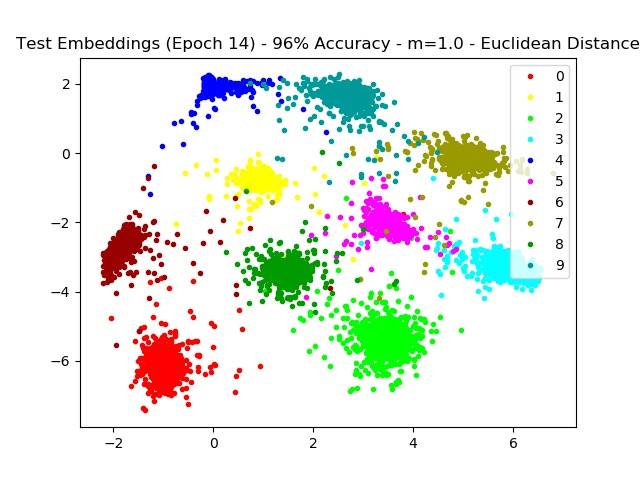
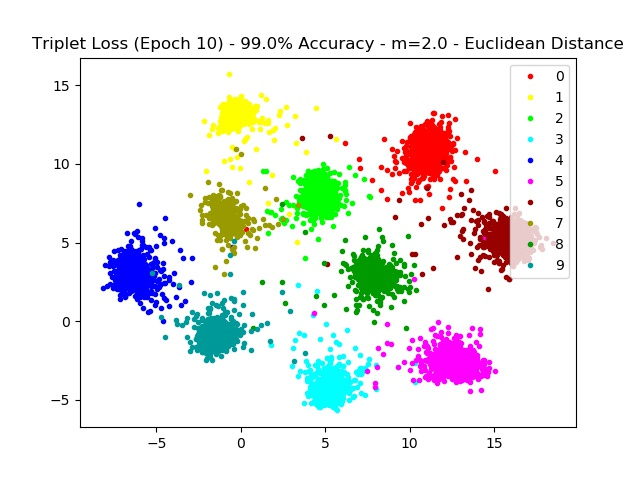
Fixed circular dependency issue. There's now 1 single model for mnist, with a customizable loss layer applied at the end. Fixed a couple of issues related to coco loss. Added new triplet euclidean result

diff --git a/models.py b/models.py
@@ -1,17 +1,20 @@
 #!/usr/bin/env python3
 # -*- coding: utf-8 -*-
 from torch import nn
-import torch.nn.functional as F
-from losses.arcface import ArcLinear
-from losses.coco import CocoLinear
 
 
-class CommonNet(nn.Module):
+class Flatten(nn.Module):
+    def forward(self, x):
+        return x.view(x.size(0), -1)
+
+
+class MNISTNet(nn.Module):
     
-    def __init__(self, nfeat):
-        super(CommonNet, self).__init__()
+    def __init__(self, nfeat, loss_module=None):
+        super(MNISTNet, self).__init__()
+        self.loss_module = loss_module
         self.out_dim = 128*3*3
-        self.conv = nn.Sequential(
+        self.net = nn.Sequential(
                 nn.Conv2d(1, 32, kernel_size=5, padding=2),
                 nn.PReLU(),
                 nn.Conv2d(32, 32, kernel_size=5, padding=2),
@@ -26,64 +29,19 @@ class CommonNet(nn.Module):
                 nn.PReLU(),
                 nn.Conv2d(128, 128, kernel_size=5, padding=2),
                 nn.PReLU(),
-                nn.MaxPool2d(2)
+                nn.MaxPool2d(2),
+                Flatten(),
+                nn.Linear(self.out_dim, nfeat),
+                nn.PReLU()
         )
-        self.dense = nn.Linear(self.out_dim, nfeat)
-        self.prelu = nn.PReLU()
     
     def forward(self, x, y):
-        x = self.conv(x).view(-1, self.out_dim)
-        return self.prelu(self.dense(x)), None
-
-
-# FIXME these models can be unified by parameterizing the classification layer
-
-class CenterNet(nn.Module):
-    
-    def __init__(self, nfeat, nclass):
-        super(CenterNet, self).__init__()
-        self.common = CommonNet(nfeat)
-        self.linear = nn.Linear(nfeat, nclass, bias=False)
-
-    def forward(self, x, y):
-        feat, _ = self.common(x, y)
-        logits = self.linear(feat)
-        return feat, F.log_softmax(logits, dim=1)
-
-
-class ArcNet(nn.Module):
-    
-    def __init__(self, nfeat, nclass, margin, s):
-        super(ArcNet, self).__init__()
-        self.common = CommonNet(nfeat)
-        self.arc = ArcLinear(nfeat, nclass, margin, s)
-
-    def forward(self, x, y):
-        feat, _ = self.common(x, y)
-        logits = self.arc(feat, y)
+        feat = self.net(x)
+        logits = self.loss_module(feat, y) if self.loss_module is not None else None
         return feat, logits
     
-    def common_params(self):
-        return self.common.parameters()
+    def net_params(self):
+        return self.net.parameters()
     
-    def arc_params(self):
-        return self.arc.parameters()
-
-
-class CocoNet(nn.Module):
-    
-    def __init__(self, nfeat, nclass, alpha):
-        super(CocoNet, self).__init__()
-        self.common = CommonNet(nfeat)
-        self.coco = CocoLinear(nfeat, nclass, alpha)
-
-    def forward(self, x, y):
-        feat, _ = self.common(x, y)
-        logits = self.coco(feat, y)
-        return feat, logits
-    
-    def common_params(self):
-        return self.common.parameters()
-    
-    def coco_params(self):
-        return self.coco.parameters()
+    def loss_params(self):
+        return self.loss_module.parameters()

diff --git a/losses/coco.py b/losses/coco.py
@@ -5,7 +5,7 @@ import torch.nn.functional as F
 from torch.utils.data import DataLoader
 import torch.optim as optim
 from torch.optim import lr_scheduler
-from models import CocoNet
+from models import MNISTNet
 from losses.base import BaseTrainer
 from losses.wrappers import LossWrapper
 from distances import CosineDistance
@@ -30,7 +30,7 @@ class CocoTrainer(BaseTrainer):
         train_loader = DataLoader(trainset, batch_size, shuffle=True, num_workers=4)
         test_loader = DataLoader(testset, batch_size=1000, shuffle=False, num_workers=4)
         super(CocoTrainer, self).__init__(
-                CocoNet(nfeat, nclass, alpha),
+                MNISTNet(nfeat, loss_module=CocoLinear(nfeat, nclass, alpha)),
                 device,
                 LossWrapper(nn.CrossEntropyLoss().to(device)),
                 CosineDistance(),
@@ -38,11 +38,11 @@ class CocoTrainer(BaseTrainer):
                 test_loader)
         self.alpha = alpha
         self.optimizers = [
-                optim.SGD(self.model.common_params(), lr=0.005, momentum=0.9, weight_decay=0.0005),
-                optim.SGD(self.model.arc_params(), lr=0.01)
+                optim.SGD(self.model.net_params(), lr=0.001, momentum=0.9, weight_decay=0.0005),
+                optim.SGD(self.model.loss_params(), lr=0.01, momentum=0.9)
         ]
         self.schedulers = [
-                lr_scheduler.StepLR(self.optimizers[0], 8, gamma=0.2)
+                lr_scheduler.StepLR(self.optimizers[0], 10, gamma=0.5)
         ]
     
     def __str__(self):

diff --git a/losses/center.py b/losses/center.py
@@ -2,12 +2,13 @@
 # -*- coding: utf-8 -*-
 import torch
 import torch.nn as nn
+import torch.nn.functional as F
 from torch.autograd.function import Function
 import torch.optim as optim
 import torch.optim.lr_scheduler as lr_scheduler
 from torch.utils.data import DataLoader
 from losses.base import BaseTrainer
-from models import CenterNet
+from models import MNISTNet
 from distances import EuclideanDistance
 
 class SoftmaxCenterLoss(nn.Module):
@@ -68,13 +69,22 @@ class CenterlossFunc(Function):
         return - grad_output * diff / batch_size, None, grad_centers / batch_size, None
 
 
+class CenterLinear(nn.Module):
+    
+    def __init__(self, nfeat, nclass):
+        self.linear = nn.Linear(nfeat, nclass, bias=False)
+    
+    def forward(self, x, y):
+        return F.log_softmax(self.linear(x), dim=1)
+
+
 class CenterTrainer(BaseTrainer):
     
     def __init__(self, trainset, testset, device, nfeat, nclass, loss_weight=1, batch_size=100):
         train_loader = DataLoader(trainset, batch_size, shuffle=True, num_workers=4)
         test_loader = DataLoader(testset, batch_size=1000, shuffle=False, num_workers=4)
         super(CenterTrainer, self).__init__(
-                CenterNet(nfeat, nclass),
+                MNISTNet(nfeat, loss_module=CenterLinear(nfeat, nclass)),
                 device,
                 SoftmaxCenterLoss(device, nfeat, nclass, loss_weight),
                 EuclideanDistance(),

diff --git a/losses/arcface.py b/losses/arcface.py
@@ -7,7 +7,7 @@ from torch.utils.data import DataLoader
 import torch.optim as optim
 from torch.optim import lr_scheduler
 from losses.base import BaseTrainer
-from models import ArcNet
+from models import MNISTNet
 from losses.wrappers import LossWrapper
 from distances import CosineDistance
 
@@ -70,7 +70,7 @@ class ArcTrainer(BaseTrainer):
         train_loader = DataLoader(trainset, batch_size, shuffle=True, num_workers=4)
         test_loader = DataLoader(testset, batch_size=1000, shuffle=False, num_workers=4)
         super(ArcTrainer, self).__init__(
-                ArcNet(nfeat, nclass, margin, s),
+                MNISTNet(nfeat, loss_module=ArcLinear(nfeat, nclass, margin, s)),
                 device,
                 LossWrapper(nn.CrossEntropyLoss().to(device)),
                 CosineDistance(),
@@ -79,8 +79,8 @@ class ArcTrainer(BaseTrainer):
         self.margin = margin
         self.s = s
         self.optimizers = [
-                optim.SGD(self.model.common_params(), lr=0.005, momentum=0.9, weight_decay=0.0005),
-                optim.SGD(self.model.arc_params(), lr=0.01)
+                optim.SGD(self.model.net_params(), lr=0.005, momentum=0.9, weight_decay=0.0005),
+                optim.SGD(self.model.loss_params(), lr=0.01)
         ]
         self.schedulers = [
                 lr_scheduler.StepLR(self.optimizers[0], 8, gamma=0.2),

diff --git a/main.py b/main.py
@@ -4,7 +4,7 @@ from distances import CosineDistance
 from losses.arcface import ArcTrainer
 from losses.contrastive import ContrastiveTrainer
 from losses.triplet import TripletTrainer
-from losses.softmax import SoftmaxTrainer
+from losses.wrappers import SoftmaxTrainer
 from losses.center import CenterTrainer
 from losses.coco import CocoTrainer
 import argparse
@@ -27,7 +27,7 @@ def get_trainer(loss):
     elif loss == 'contrastive':
         return ContrastiveTrainer(trainset, testset, device, nfeat, margin=0.2, distance=CosineDistance())
     elif loss == 'triplet':
-        return TripletTrainer(trainset, testset, device, nfeat, margin=2.0)
+        return TripletTrainer(trainset, testset, device, nfeat, margin=0.15, distance=CosineDistance())
     elif loss == 'arcface':
         return ArcTrainer(trainset, testset, device, nfeat, nclass)
     elif loss == 'center':

diff --git a/losses/wrappers.py b/losses/wrappers.py
@@ -4,7 +4,8 @@ import torch.optim as optim
 import torch.optim.lr_scheduler as lr_scheduler
 from torch.utils.data import DataLoader
 from losses.base import BaseTrainer
-from models import CenterNet
+from losses.center import CenterLinear
+from models import MNISTNet
 from distances import CosineDistance
 
 
@@ -24,7 +25,7 @@ class SoftmaxTrainer(BaseTrainer):
         train_loader = DataLoader(trainset, batch_size, shuffle=True, num_workers=4)
         test_loader = DataLoader(testset, batch_size=1000, shuffle=False, num_workers=4)
         super(SoftmaxTrainer, self).__init__(
-                CenterNet(nfeat, nclass),
+                MNISTNet(nfeat, loss_module=CenterLinear(nfeat, nclass)),
                 device,
                 LossWrapper(nn.NLLLoss().to(device)),
                 CosineDistance(),

diff --git a/losses/contrastive.py b/losses/contrastive.py
@@ -6,7 +6,7 @@ import torch.optim as optim
 from torch.optim import lr_scheduler
 from torch.utils.data import DataLoader
 from losses.base import BaseTrainer
-from models import CommonNet
+from models import MNISTNet
 from distances import EuclideanDistance
 
 
@@ -56,7 +56,7 @@ class ContrastiveTrainer(BaseTrainer):
         train_loader = DataLoader(trainset, batch_size, shuffle=True, num_workers=4)
         test_loader = DataLoader(testset, batch_size, shuffle=False, num_workers=4)
         super(ContrastiveTrainer, self).__init__(
-                CommonNet(nfeat),
+                MNISTNet(nfeat),
                 device,
                 ContrastiveLoss(device, margin, distance),
                 distance,

diff --git a/losses/triplet.py b/losses/triplet.py
@@ -9,7 +9,7 @@ import numpy as np
 from scipy.spatial.distance import squareform
 from losses.base import BaseTrainer
 from distances import to_condensed, EuclideanDistance
-from models import CommonNet
+from models import MNISTNet
 
 
 class TripletLoss(nn.Module):
@@ -90,7 +90,7 @@ class TripletTrainer(BaseTrainer):
         train_loader = DataLoader(trainset, batch_size, shuffle=True, num_workers=4)
         test_loader = DataLoader(testset, batch_size, shuffle=False, num_workers=4)
         super(TripletTrainer, self).__init__(
-                CommonNet(nfeat),
+                MNISTNet(nfeat),
                 device,
                 TripletLoss(device, margin, distance),
                 distance,
